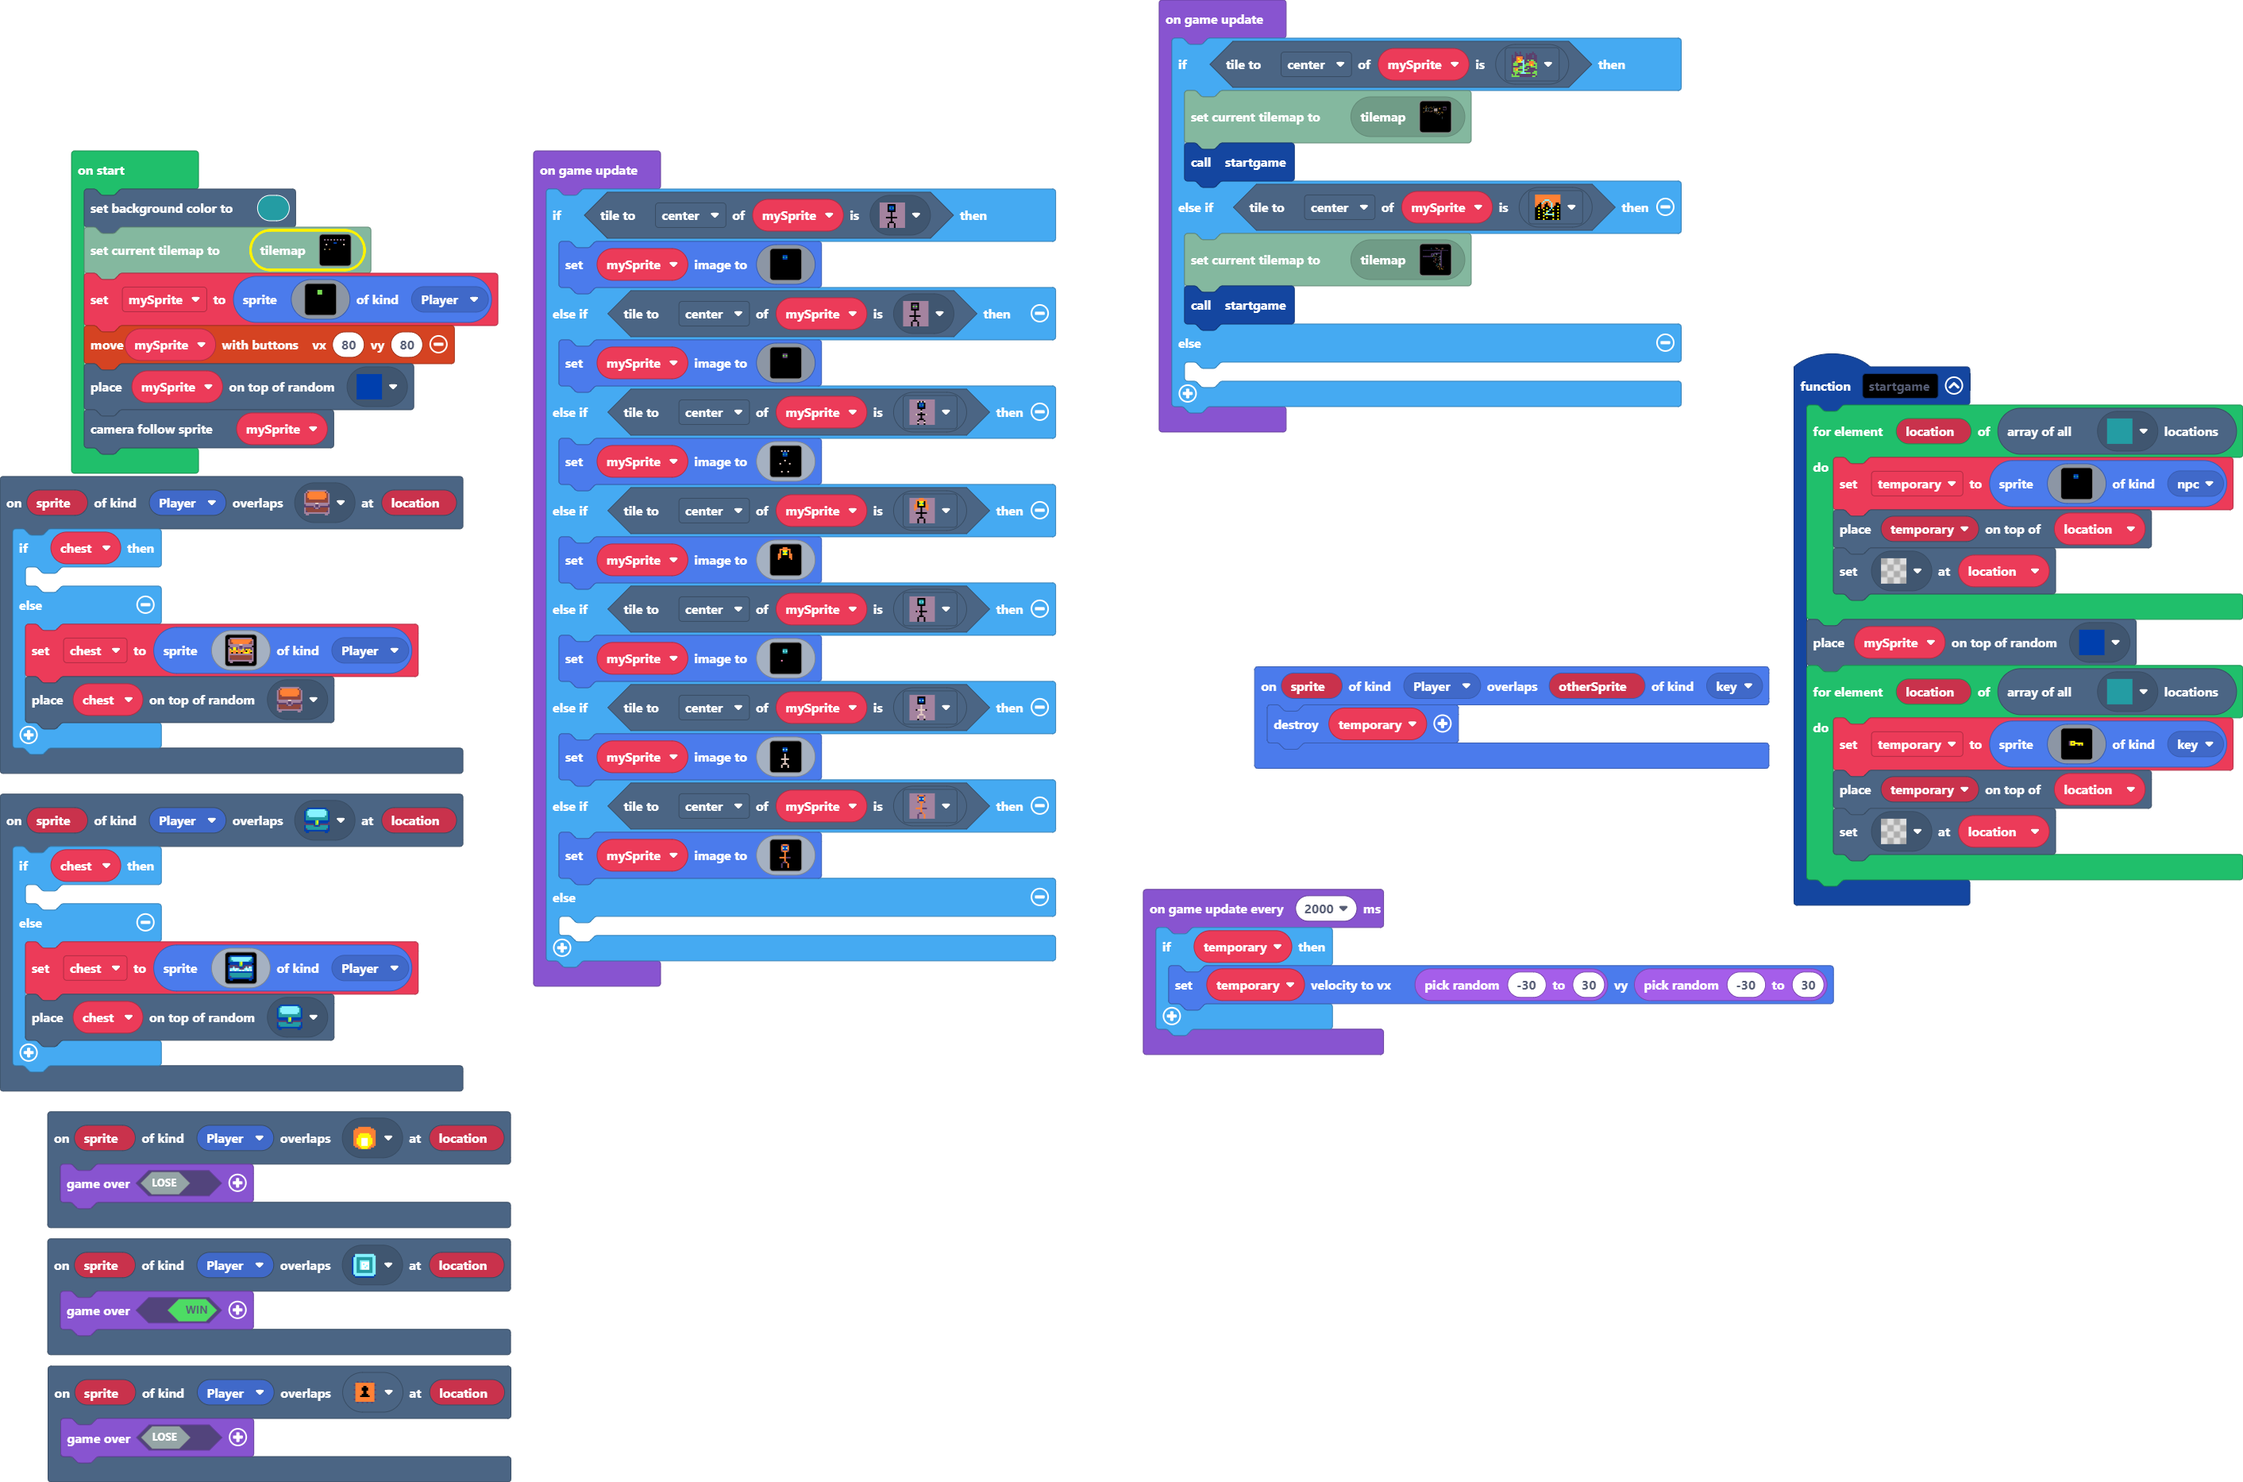
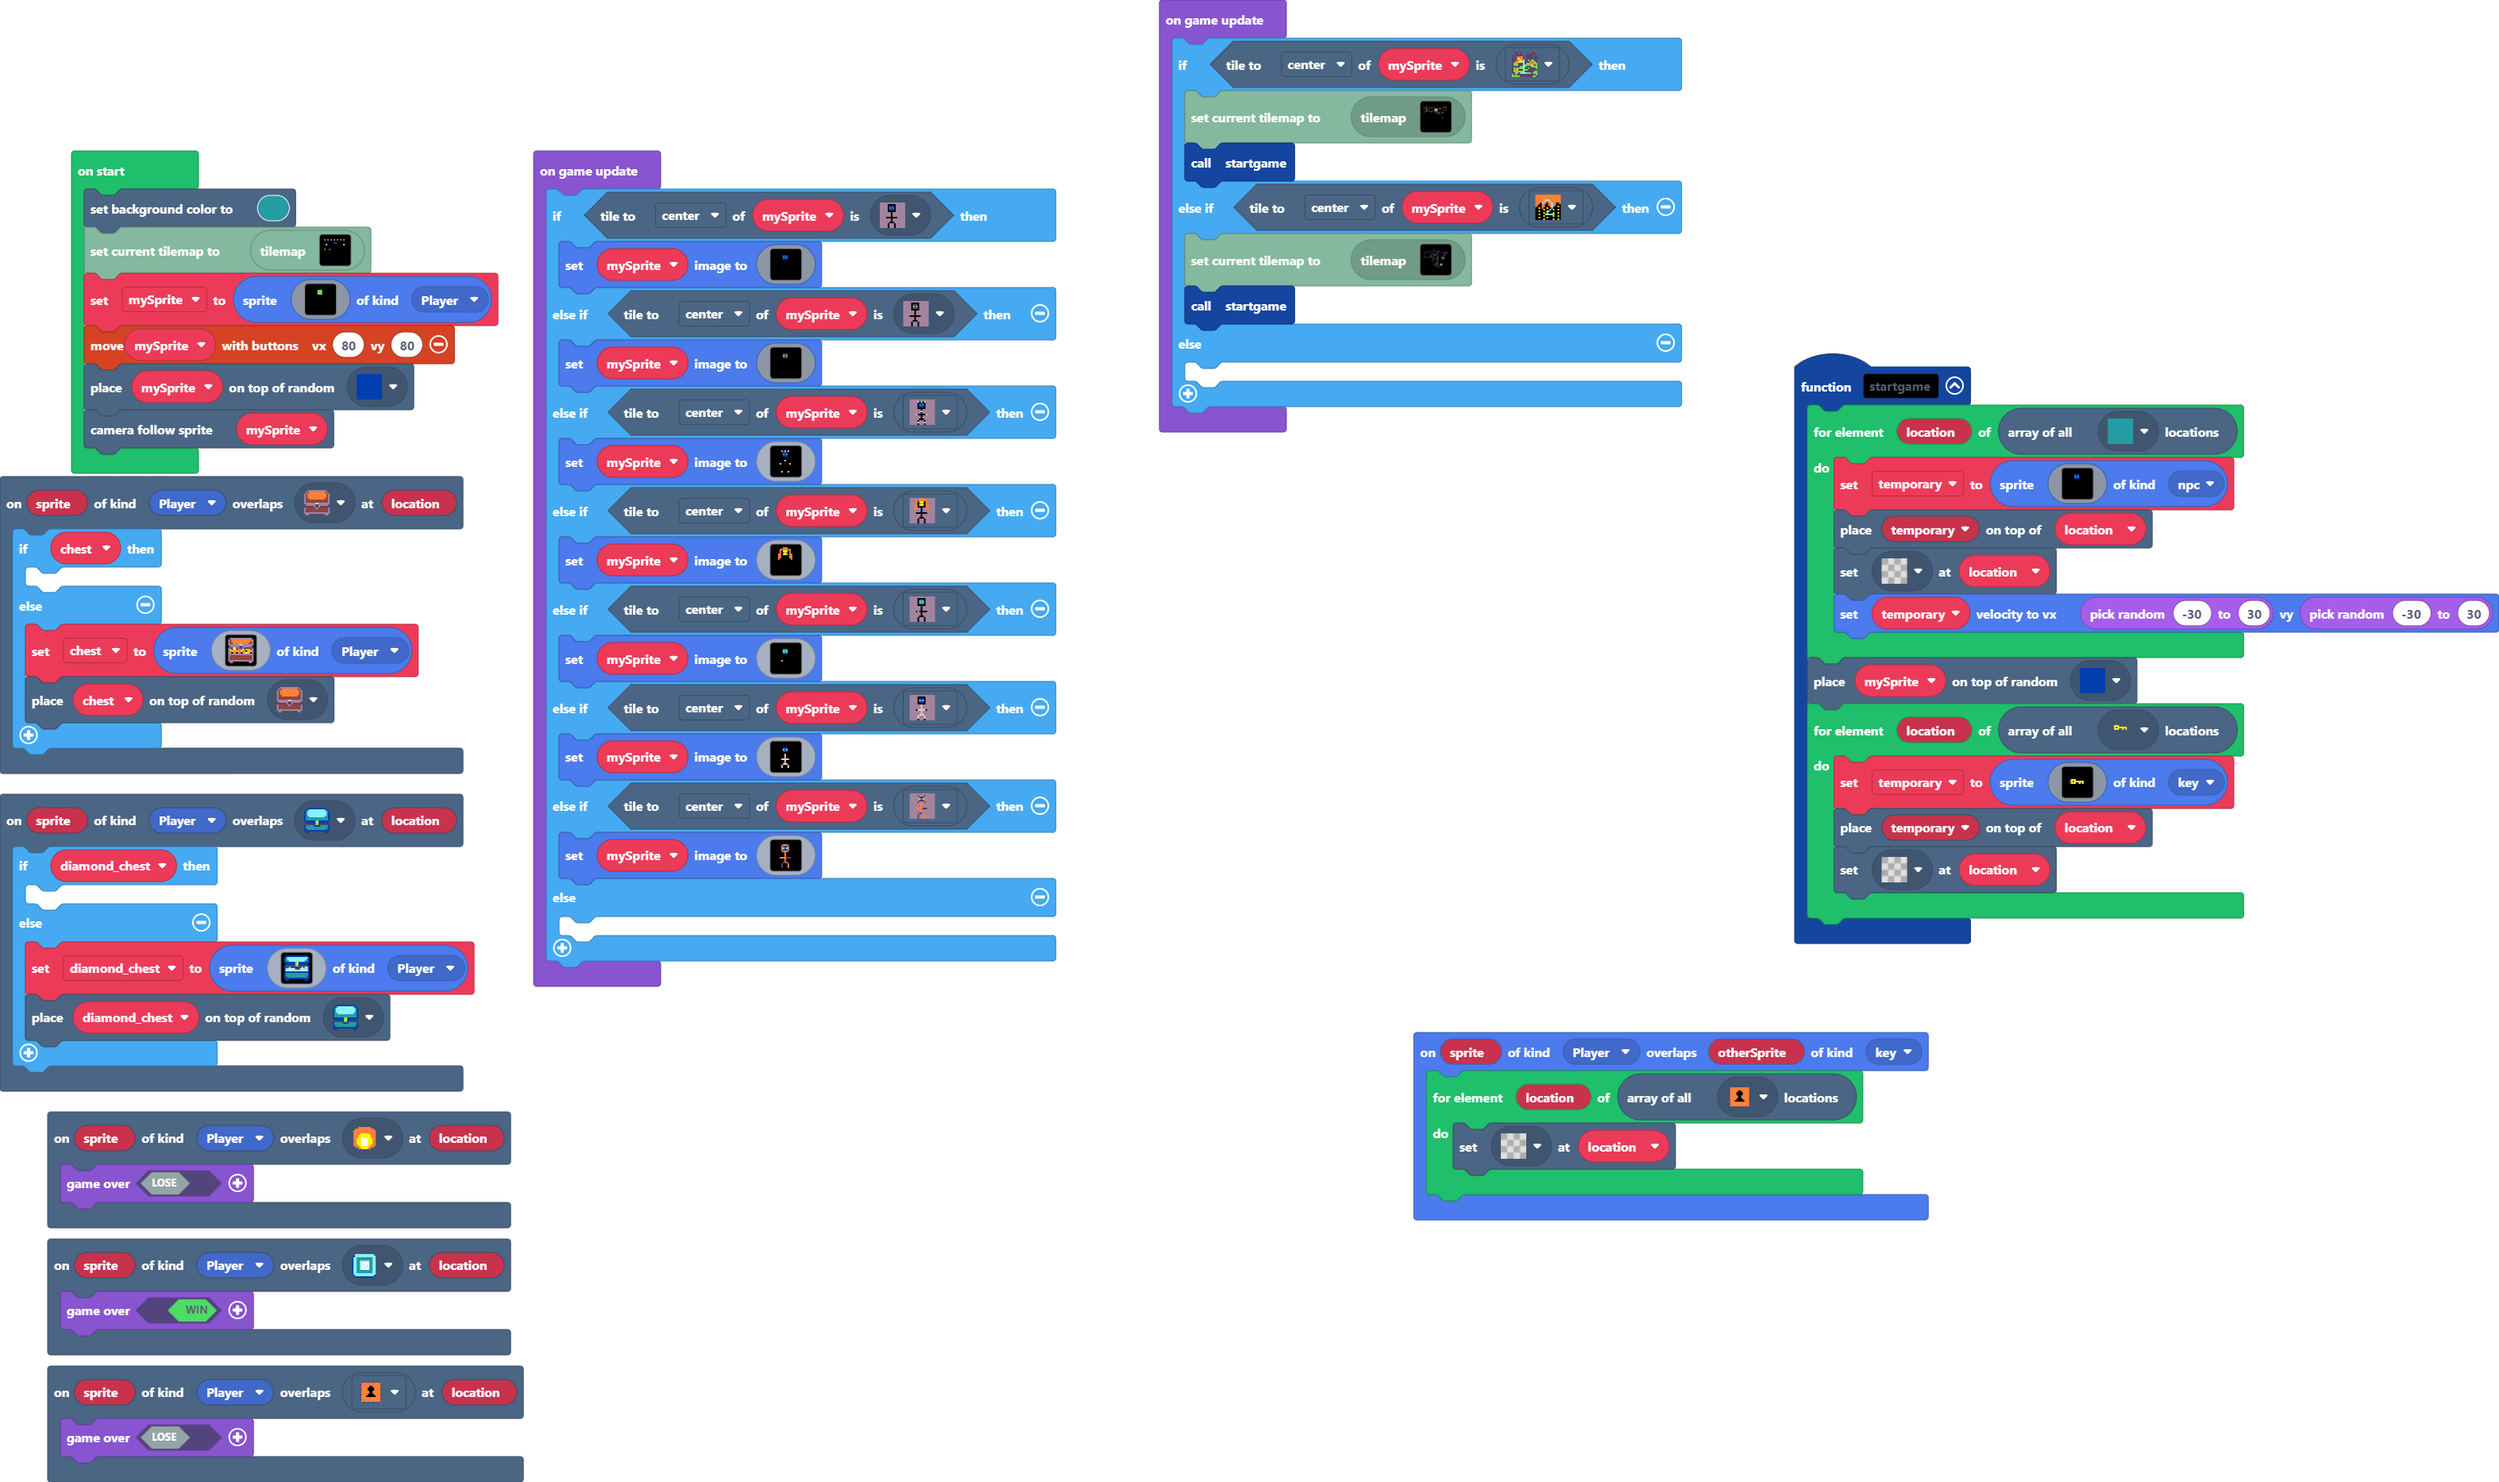
made level 2.

diff --git a/tilemap.g.ts b/tilemap.g.ts
@@ -84,6 +84,14 @@ namespace myTiles {
     export const tile12 = image.ofBuffer(hex``);
     //% fixedInstance jres blockIdentity=images._tile
     export const tile31 = image.ofBuffer(hex``);
+    //% fixedInstance jres blockIdentity=images._tile
+    export const tile37 = image.ofBuffer(hex``);
+    //% fixedInstance jres blockIdentity=images._tile
+    export const tile38 = image.ofBuffer(hex``);
+    //% fixedInstance jres blockIdentity=images._tile
+    export const tile40 = image.ofBuffer(hex``);
+    //% fixedInstance jres blockIdentity=images._tile
+    export const tile44 = image.ofBuffer(hex``);
 
     helpers._registerFactory("tilemap", function(name: string) {
         switch(helpers.stringTrim(name)) {
@@ -211,49 +219,6 @@ namespace myTiles {
 . . . . . . . . . . . . . . . . 
 . . . . . . . . . . . . . . . . 
 `, [myTiles.transparency16], TileScale.Sixteen);
-            case "level7":
[1 lines of base64/hex data omitted]
-...........22222222222222222222222......
-...........2.....................2......
-...........2...222222...2...2....2......
-...........2...222222...2...2....2......
-2222222222222222222222222.22222222222222
-............................2.2.........
-2222222222222222222222222222..2222222222
-...........................2..2.........
-.................22222222222..2.........
-............222222............2.........
-............2.................2.........
-............2......222222222..2.........
-............2..22222....2222..2.........
-2222222222222..2...2....2222..2.........
-...............2...22.222..2..2.........
-...............2........2..2..2.........
-22222222222222222222222....2..2.........
-................2.....2.2222..2.........
-................2.....2.2..2..2.........
-................2.....2.2..2..2.........
-................2.....2....2..2.........
-................2.....2.2222..2.........
-................2.22222....2..2.........
-................2.22.......2..2.........
-................2.22.......2..2.........
-................2.22222222.22.2.........
-................2........2..2.2.........
-................2...........2.2.........
-................2........2..2.2.........
-................22222.222222..2.........
-....................2..2...2..222.......
-....................2......2..2.........
-....................22222.22.22.2.......
-........................2.......2.......
-........................2.......2.......
-........................2.......2.......
-........................222222222.......
-........................................
-........................................
-........................................
-`, [myTiles.transparency16,myTiles.tile6,myTiles.tile9,myTiles.tile10,myTiles.tile22,myTiles.tile23,myTiles.tile27,myTiles.tile29,myTiles.tile16,myTiles.tile30,myTiles.tile31,myTiles.tile32,myTiles.tile33,myTiles.tile15,myTiles.tile18,myTiles.tile25,myTiles.tile34,myTiles.tile39,myTiles.tile41,myTiles.tile42,myTiles.tile43,myTiles.tile46,myTiles.tile47,myTiles.tile12], TileScale.Sixteen);
             case "level1":
[1 lines of base64/hex data omitted]
 2 2 2 2 2 2 2 2 2 2 2 2 2 2 2 2 
@@ -273,6 +238,49 @@ namespace myTiles {
 . . . . . . . . . . . . . . . . 
 . . . . . . . . . . . . . . . . 
 `, [myTiles.transparency16,myTiles.tile1,myTiles.tile2,myTiles.tile3,myTiles.tile4,myTiles.tile5,myTiles.tile6,myTiles.tile7,myTiles.tile8,myTiles.tile9,myTiles.tile10,myTiles.tile11,myTiles.tile28,myTiles.tile31], TileScale.Sixteen);
+            case "level7":
[1 lines of base64/hex data omitted]
+...........22222222222222222222222................
+...........2.....................2................
+...........2...222222...2...2....2................
+...........2...222222...2...2....2................
+2222222222222222222222222.22222.22222222..........
+............................2.2...................
+222.222222222222222222222222..2222222222..........
+222.222222222222222222222222..2...................
+222.222222222222222222222222..2...................
+222.22222222222222............2...................
+222.2222222222.....2222222222.2...................
+222.2222222222.22222....2.222.2...................
+222.2222222222.22.22....2.222.2...................
+222.2222222222.2...2....2.222.2...................
+22....22222222.2...22.222...2.2...................
+...............2........2...2.2...................
+22222222222222222222222.....2.2...................
+................2.....2.22222.2...................
+................2.....2.2...2.2...................
+................2.....2.2...2.2...................
+................2.....2.....2.2...................
+................2.....2.22222.2...................
+................2.22222....22.2...................
+................2.22........2.2...................
+................2.22.......22.2...................
+................2.22222222.22.2...................
+................2........2..2.2...................
+................2...........2.2...................
+................2........2..2.2...................
+................22222.222222..2...................
+....................2..2...2..222.................
+....................2......2..2...................
+....................22222.22.22.2.................
+........................2.......2.................
+........................2......22.................
+........................2.......2.................
+........................222222222.................
+..................................................
+..................................................
+..................................................
+`, [myTiles.transparency16,myTiles.tile6,myTiles.tile9,myTiles.tile10,myTiles.tile22,myTiles.tile23,myTiles.tile27,myTiles.tile29,myTiles.tile16,myTiles.tile30,myTiles.tile31,myTiles.tile32,myTiles.tile33,myTiles.tile15,myTiles.tile18,myTiles.tile25,myTiles.tile34,myTiles.tile39,myTiles.tile41,myTiles.tile42,myTiles.tile43,myTiles.tile46,myTiles.tile47,myTiles.tile12,myTiles.tile17,myTiles.tile20,myTiles.tile13,myTiles.tile19,myTiles.tile21,myTiles.tile35,myTiles.tile37,myTiles.tile38,myTiles.tile40,myTiles.tile44], TileScale.Sixteen);
         }
         return null;
     })
@@ -362,6 +370,14 @@ namespace myTiles {
             case "tile12":return tile12;
             case "myTile29":
             case "tile31":return tile31;
+            case "myTile35":
+            case "tile37":return tile37;
+            case "myTile36":
+            case "tile38":return tile38;
+            case "myTile38":
+            case "tile40":return tile40;
+            case "myTile42":
+            case "tile44":return tile44;
         }
         return null;
     })

diff --git a/main.ts b/main.ts
@@ -31,10 +31,10 @@ scene.onOverlapTile(SpriteKind.Player, assets.tile`myTile13`, function (sprite, 
     game.over(false)
 })
 scene.onOverlapTile(SpriteKind.Player, assets.tile`myTile16`, function (sprite, location) {
-    if (chest) {
+    if (diamond_chest) {
     	
     } else {
-        chest = sprites.create(img`
+        diamond_chest = sprites.create(img`
             . 8 8 8 8 8 8 8 8 8 8 8 8 8 8 . 
             8 6 9 9 9 9 9 9 9 9 9 9 9 9 9 8 
             8 6 9 9 9 9 9 9 9 9 9 9 9 9 6 8 
@@ -52,7 +52,7 @@ scene.onOverlapTile(SpriteKind.Player, assets.tile`myTile16`, function (sprite, 
             8 8 8 8 8 8 8 8 8 8 8 8 8 8 8 8 
             . 8 8 . . . . . . . . . . 8 8 . 
             `, SpriteKind.Player)
-        tiles.placeOnRandomTile(chest, assets.tile`myTile16`)
+        tiles.placeOnRandomTile(diamond_chest, assets.tile`myTile16`)
     }
 })
 function startgame () {
@@ -77,9 +77,10 @@ function startgame () {
             `, SpriteKind.npc)
         tiles.placeOnTile(temporary, location)
         tiles.setTileAt(location, assets.tile`transparency16`)
+        temporary.setVelocity(randint(-30, 30), randint(-30, 30))
     }
     tiles.placeOnRandomTile(mySprite, assets.tile`myTile7`)
-    for (let location of tiles.getTilesByType(assets.tile`myTile25`)) {
+    for (let location of tiles.getTilesByType(assets.tile`myTile45`)) {
         temporary = sprites.create(img`
             . . . . . . . . . . . . . . . . 
             . . . . . . . . . . . . . . . . 
@@ -103,7 +104,9 @@ function startgame () {
     }
 }
 sprites.onOverlap(SpriteKind.Player, SpriteKind.key, function (sprite, otherSprite) {
-    temporary.destroy()
+    for (let location of tiles.getTilesByType(assets.tile`myTile10`)) {
+        tiles.setTileAt(location, assets.tile`transparency16`)
+    }
 })
 scene.onOverlapTile(SpriteKind.Player, assets.tile`myTile10`, function (sprite, location) {
     game.over(false)
@@ -112,6 +115,7 @@ scene.onOverlapTile(SpriteKind.Player, assets.tile`myTile11`, function (sprite, 
     game.over(true)
 })
 let temporary: Sprite = null
+let diamond_chest: Sprite = null
 let chest: Sprite = null
 let mySprite: Sprite = null
 scene.setBackgroundColor(6)
@@ -284,10 +288,5 @@ game.onUpdate(function () {
             `)
     } else {
     	
-    }
-})
-game.onUpdateInterval(2000, function () {
-    if (temporary) {
-        temporary.setVelocity(randint(-30, 30), randint(-30, 30))
     }
 })
